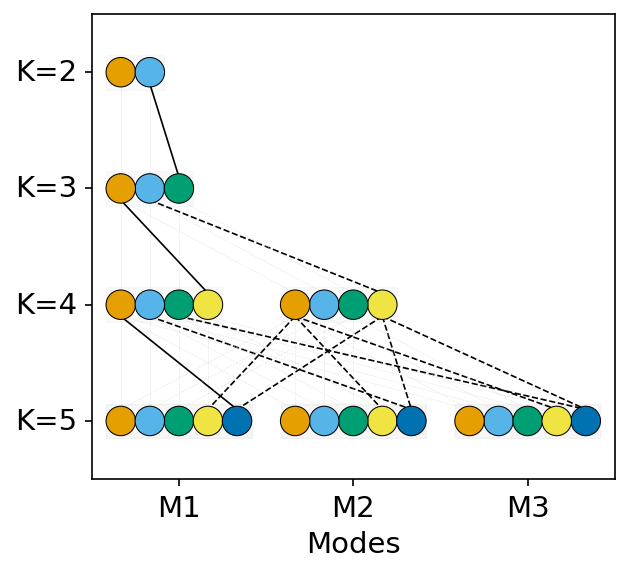
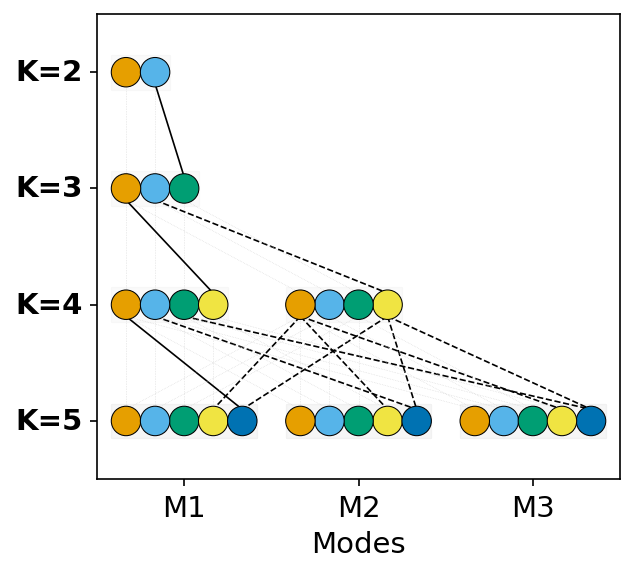
fix bold

diff --git a/clumppling/core.py b/clumppling/core.py
@@ -344,7 +344,7 @@ def detect_communities(cost_mat: np.ndarray, test_comm: bool = True, method: str
         logger.info(f"Largest cost {cost_max} is smaller than threshold {min_threshold}. Returning a single mode.")
         return [0]*n_nodes    
     if cost_min > max_threshold:
-        logger.info(f"Smallest cost {cost_min} is larger than threshold {min_threshold}. Returning all singleton modes.")
+        logger.info(f"Smallest cost {cost_min} is larger than threshold {max_threshold}. Returning all singleton modes.")
         return list(range(n_nodes))
     
     # when n_nodes > 2, we run community detection

diff --git a/clumppling/plot.py b/clumppling/plot.py
@@ -477,7 +477,7 @@ def plot_alignment_graph(K_range: list[int], names_list: list[list[str]], cmap: 
 
     ax.set_yticks(np.arange(n_row))
     if not separate_labels:
-        ax.set_yticklabels([f"K={K}" for K in K_range], rotation=0, fontsize=14, va='center', ha='right')
+        ax.set_yticklabels([f"K={K}" for K in K_range], rotation=0, fontsize=14, va='center', ha='right', weight='bold')
     ax.set_ylim(-0.5,n_row-0.5)
 
     ax.invert_yaxis() 

diff --git a/README.md b/README.md
@@ -2,7 +2,7 @@
 
 This is the GitHub repository for the program ***Clumppling*** (CLUster Matching and Permutation Program that uses integer Linear programmING), a framework for aligning mixed-membership clustering results of population structure analysis.
 
-Current version **v 1.5.0** (Last update: Oct 5, 2025)
+Current version **v 1.5.1** (Last update: Nov 20, 2025)
 
 This README provides a quick-start guide for installation and use. See the [software manual](Clumppling_Manual.pdf) for full details.
 
@@ -102,12 +102,17 @@ Run the following command:
    ````
 If the installation was successful, you should see the usage of the program in the command window. The usage tells you the required and optional arguments to the program. It should look like:
 ````bash
-usage: __main__.py [-h] -i INPUT -o OUTPUT -f {generalQ,admixture,structure,fastStructure} [-v VIS] [--custom_cmap CUSTOM_CMAP] [--plot_type {graph,list,withinK,major,all}]
-                   [--include_cost INCLUDE_COST] [--include_label INCLUDE_LABEL] [--alt_color ALT_COLOR] [--ind_labels IND_LABELS] [--regroup_ind REGROUP_IND]
-                   [--reorder_within_group REORDER_WITHIN_GROUP] [--reorder_by_max_k REORDER_BY_MAX_K] [--order_cls_by_label ORDER_CLS_BY_LABEL] [--plot_unaligned PLOT_UNALIGNED]
-                   [--fig_format {png,jpg,jpeg,tif,tiff,svg,pdf,eps,ps,bmp,gif}] [--extension EXTENSION] [--skip_rows SKIP_ROWS] [--remove_missing REMOVE_MISSING]
-                   [--cd_method {louvain,leiden,infomap,markov_clustering,label_propagation,walktrap,custom}] [--cd_res CD_RES] [--test_comm TEST_COMM] [--comm_min COMM_MIN]
-                   [--comm_max COMM_MAX] [--merge MERGE] [--use_rep USE_REP] [--use_best_pair USE_BEST_PAIR]
+usage: __main__.py [-h] -i INPUT -o OUTPUT -f {generalQ,admixture,structure,fastStructure} [-v VIS]
+                   [--custom_cmap CUSTOM_CMAP] [--plot_type {graph,list,withinK,major,all}] [--include_cost INCLUDE_COST]
+                   [--include_label INCLUDE_LABEL] [--alt_color ALT_COLOR] [--ind_labels IND_LABELS]
+                   [--ordered_uniq_labels ORDERED_UNIQ_LABELS] [--regroup_ind REGROUP_IND]
+                   [--reorder_within_group REORDER_WITHIN_GROUP] [--reorder_by_max_k REORDER_BY_MAX_K]
+                   [--order_cls_by_label ORDER_CLS_BY_LABEL] [--plot_unaligned PLOT_UNALIGNED]
+                   [--fig_format {png,jpg,jpeg,tif,tiff,svg,pdf,eps,ps,bmp,gif}] [--extension EXTENSION]
+                   [--skip_rows SKIP_ROWS] [--remove_missing REMOVE_MISSING]
+                   [--cd_method {louvain,leiden,infomap,markov_clustering,label_propagation,walktrap,custom}]
+                   [--cd_res CD_RES] [--test_comm TEST_COMM] [--comm_min COMM_MIN] [--comm_max COMM_MAX] [--merge MERGE]
+                   [--use_rep USE_REP] [--use_best_pair USE_BEST_PAIR]
 
 Clumppling: a tool for cluster matching and permutation program with integer linear programming
 
@@ -122,8 +127,8 @@ required arguments:
 optional arguments:
   -v VIS, --vis VIS     Whether to generate figure(s): True (default)/False
   --custom_cmap CUSTOM_CMAP
-                        A plain text file containing customized colors (one per line; in hex code): if empty (default), using the default colormap, otherwise use the user-
-                        specified colormap
+                        A plain text file containing customized colors (one per line; in hex code): if empty (default),
+                        using the default colormap, otherwise use the user-specified colormap
   --plot_type {graph,list,withinK,major,all}
                         Type of plot to generate: 'graph' (default), 'list', 'withinK', 'major', 'all'
   --include_cost INCLUDE_COST
@@ -133,16 +138,23 @@ optional arguments:
   --alt_color ALT_COLOR
                         Whether to use alternative colors for connection lines: True (default)/False
   --ind_labels IND_LABELS
-                        A plain text file containing individual labels (one per line) (default: last column from labels in input file, which consists of columns [0, 1, 3]
-                        separated by delimiter)
+                        A plain text file containing individual labels (one per line) (default: last column from labels in
+                        input file, which consists of columns [0, 1, 3] separated by delimiter)
+  --ordered_uniq_labels ORDERED_UNIQ_LABELS
+                        A plain text file containing ordered unique individual labels (one per line) to specify the order
+                        of grouped labels (default: based on first-seen order from ind_labels)
   --regroup_ind REGROUP_IND
-                        Whether to regroup individuals so that those with the same labels stay together (if labels are available): True (default)/False
+                        Whether to regroup individuals so that those with the same labels stay together (if labels are
+                        available): True (default)/False
   --reorder_within_group REORDER_WITHIN_GROUP
-                        Whether to reorder individuals within each label group in the plot (if labels are available): True (default)/False
+                        Whether to reorder individuals within each label group in the plot (if labels are available): True
+                        (default)/False
   --reorder_by_max_k REORDER_BY_MAX_K
-                        Whether to reorder individuals based on the major mode with largest K: True (default)/False (based on the major mode with smallest K)
+                        Whether to reorder individuals based on the major mode with largest K: True (default)/False (based
+                        on the major mode with smallest K)
   --order_cls_by_label ORDER_CLS_BY_LABEL
-                        Whether to reorder clusters based on total memberships within each label group in the plot: True (default)/False (by overall total memberships)
+                        Whether to reorder clusters based on total memberships within each label group in the plot: True
+                        (default)/False (by overall total memberships)
   --plot_unaligned PLOT_UNALIGNED
                         Whether to plot unaligned modes (in a list): True/False (default)
   --fig_format {png,jpg,jpeg,tif,tiff,svg,pdf,eps,ps,bmp,gif}
@@ -194,7 +206,7 @@ The optional arguments are
 * for input parsing: ``extension``, ``skip_rows``, ``remove_missing``
 * for community detection: ``cd_method``,  ``cd_res``, ``test_comm``, ``comm_min``, ``comm_max``
 * for alignment across-K: ``merge``, ``use_rep``,``use_best_pair``
-* for figure generation: ``-v`` (``--vis``), ``plot_type``,``include_cost``, ``include_label``, ``ind_labels``, ``custom_cmap``, ``reorder_ind``, ``regroup_ind``, ``reorder_by_max_k``, ``order_cls_by_label``, ``plot_unaligned``, ``fig_format``.
+* for figure generation: ``-v`` (``--vis``), ``plot_type``,``include_cost``, ``include_label``, ``ind_labels``, ``custom_cmap``, ``reorder_ind``, ``regroup_ind``, ``ordered_uniq_labels``, ``reorder_by_max_k``, ``order_cls_by_label``, ``plot_unaligned``, ``fig_format``.
 
 See the above helper message from ``clumppling -h'' for usage of each argument. 
 
